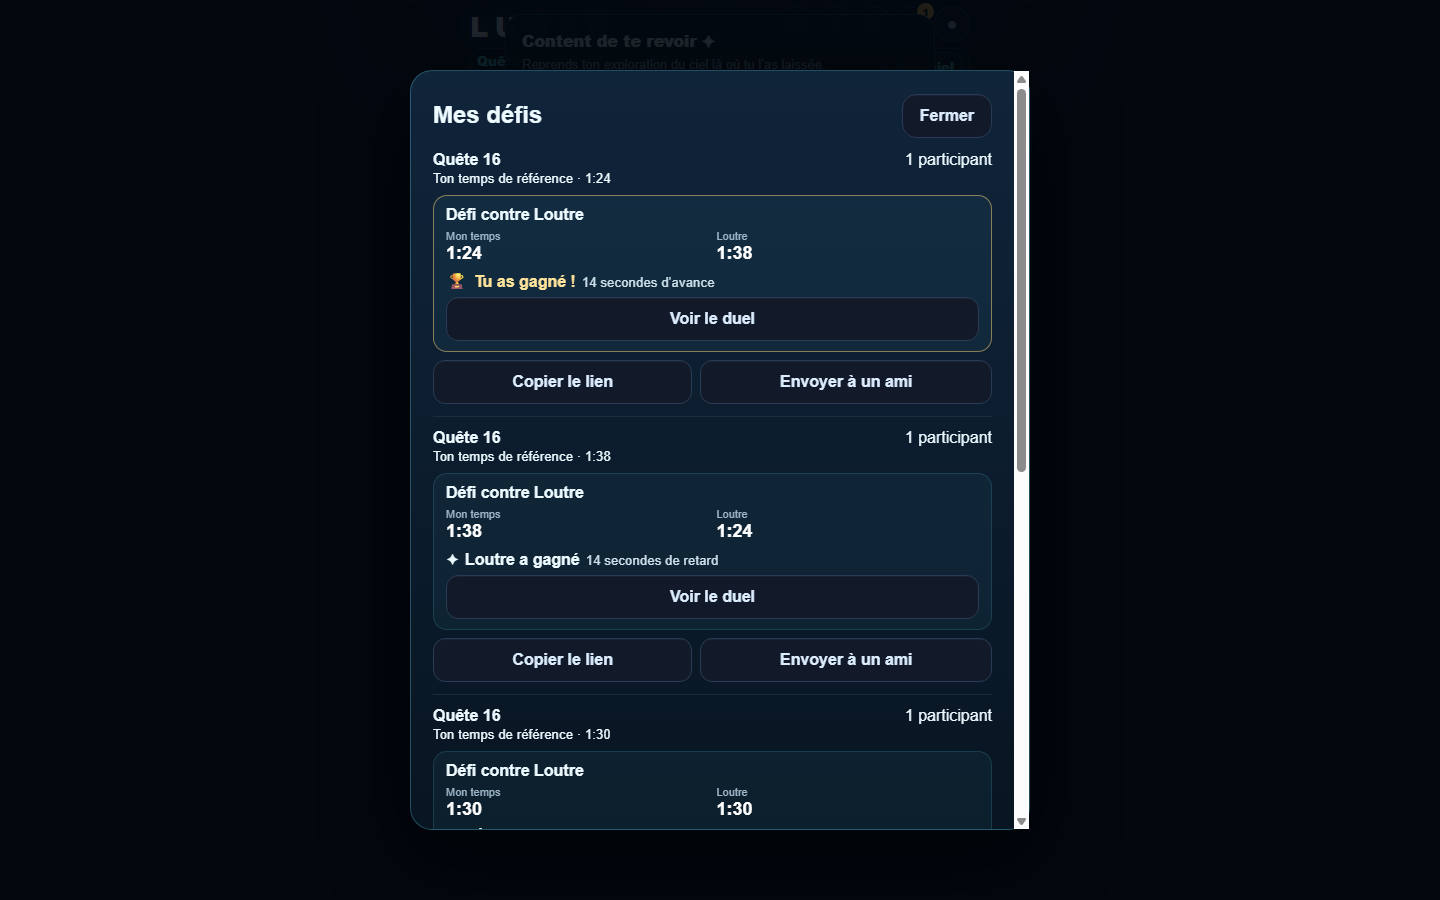
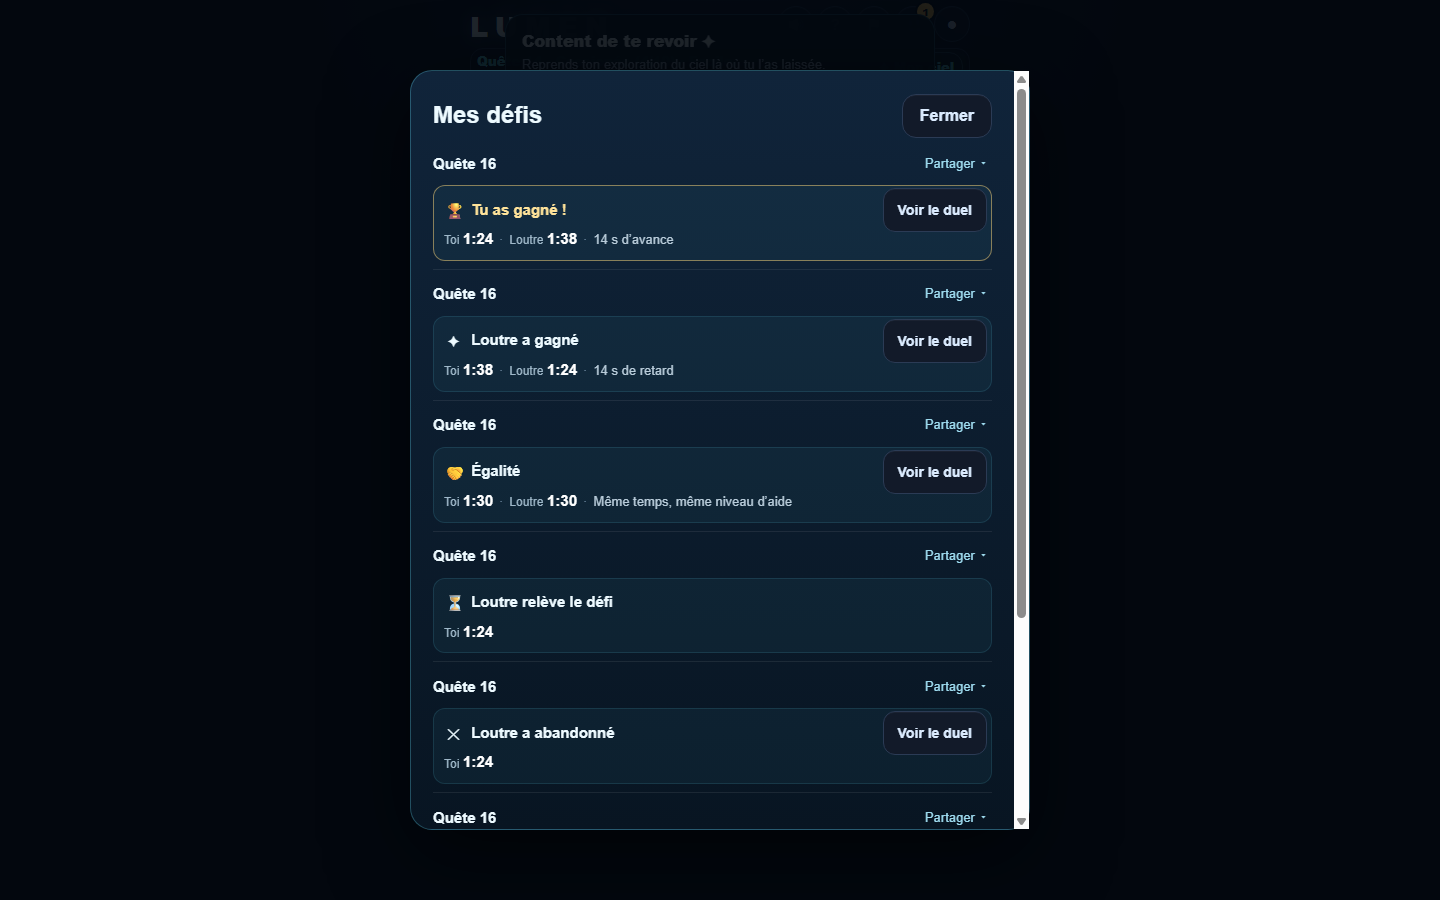
fix(ux): compact My Challenges list without changing duel detail (#896)
Recette 21/11: the « Mes défis » list was too dense on mobile. renderMyChallenges
now names the quest once and gives each player one compact line: verdict, both
times and a short gap when the duel is over (only my own time otherwise, never
0:00), with « Voir le duel » as the single main action. Sharing moves behind a
discreet « Partager » menu. Reference line, participant count and context notes
stay in the detail card. renderDuelRow (shared with « Amis et défis ») and
renderDuelCard are untouched; a SHA-256 of the card output pins it.

diff --git a/src/campaign/duel-view.js b/src/campaign/duel-view.js
@@ -132,22 +132,48 @@ export function renderDuelCard(duel,{t,formatDuration,questLabel=()=>'',currentR
 
 const actionButton=(attr,value,label,extra='')=>'<button type="button" '+attr+'="'+esc(value)+'"'+extra+'>'+esc(label)+'</button>';
 
-// « Mes défis »: one card per challenge I created, one duel row per player.
+// #896 (recette 21/11): « Mes défis » is a scannable list. Per challenge: the
+// quest once, then one compact line per player (verdict, both times and gap
+// when the duel is over), « Voir le duel » as the only main action, sharing
+// tucked behind a discreet « Partager ». Context notes stay in the detail card.
+const DUEL_DETAIL_STATES=['won','lost','tied','abandoned-them','unavailable'];
+// Short gap for one-line reading in the list; the detail card keeps the sentence.
+function shortGap(outcome,name,{t,formatDuration}){
+ if(outcome.state==='tied'||outcome.reason==='assistance')return gapText(outcome,name,{t,formatDuration});
+ if(!['won','lost'].includes(outcome.state))return '';
+ const time=outcome.gap>=60?formatDuration(outcome.gap):t('duel.secondsShort',{count:outcome.gap});
+ return t(outcome.state==='won'?'duel.aheadTime':'duel.behindTime',{time});
+}
+function compactDuel(duel,{t,formatDuration,openId}){
+ const outcome=duelOutcome(duel),name=duel.theirs.name||t('duel.friend');
+ const comparable=['won','lost','tied'].includes(outcome.state);
+ const gap=comparable?shortGap(outcome,name,{t,formatDuration}):'';
+ const mine=duel.mine.status==='completed'&&duel.mine.duration!==null?formatDuration(duel.mine.duration):null;
+ const theirs=comparable?timeOf(duel.theirs,formatDuration):null;
+ // Times: both only when comparable; otherwise my own time alone, never a 0:00.
+ const times=[mine!==null?'<span class="challenge-duel-time"><small>'+esc(t('duel.you'))+'</small> <b>'+esc(mine)+'</b></span>':'',
+  theirs!==null?'<span class="challenge-duel-time"><small>'+esc(name)+'</small> <b>'+esc(theirs)+'</b></span>':'',
+  gap?'<span class="challenge-duel-gap">'+esc(gap)+'</span>':''].filter(Boolean).join('<span class="challenge-duel-sep" aria-hidden="true">·</span>');
+ const view=openId!==null&&DUEL_DETAIL_STATES.includes(outcome.state)?actionButton('data-duel-open',openId,t('duel.view'),' class="challenge-duel-open"'):'';
+ return '<li class="challenge-duel duel-'+outcome.state+'" data-duel-state="'+outcome.state+'">'
+  +'<div class="challenge-duel-main"><span class="challenge-duel-icon" aria-hidden="true">'+VERDICT_ICON[outcome.state]+'</span>'
+  +'<strong class="challenge-duel-verdict">'+esc(duelVerdictText(outcome,name,t))+'</strong>'+view+'</div>'
+  +(times?'<p class="challenge-duel-times">'+times+'</p>':'')
+  +'</li>';
+}
+
+// « Mes défis »: one card per challenge I created, one compact line per player.
 export function renderMyChallenges(rows=[],{t,formatDuration,questLabel=()=>'',canSendFriend=false,currentRevision=null}){
  if(!rows.length)return '<p class="social-note">'+esc(t('duel.noChallenges'))+'</p>';
  return rows.map(row=>{
-  const parts=Array.isArray(row.participants)?row.participants:[];
-  const duels=parts.map((p,index)=>{
-   const duel=duelFromSentRow(row,p),done=duelOutcome(duel).state;
-   const view=['won','lost','tied','abandoned-them','unavailable'].includes(done)?actionButton('data-duel-open',row.challenge_id+'|'+index,t('duel.view')):null;
-   return renderDuelRow(duel,{t,formatDuration,questLabel:()=>'',action:view,currentRevision});
-  }).join('');
-  return '<div class="challenge-list-item" data-challenge-id="'+esc(row.challenge_id)+'">'
-   +'<div class="challenge-list-head"><strong>'+esc(questLabel(row))+'</strong><span>'+esc(t('duel.participants',{count:parts.length}))+'</span></div>'
-   +'<small>'+esc(t('duel.reference',{time:formatDuration(Number(row.source_duration_seconds)||0)}))+'</small>'
-   +(duels||'<p class="social-note">'+esc(t('duel.noParticipant'))+'</p>')
-   +'<div class="duel-row-actions">'+actionButton('data-copy-link',row.challenge_id,t('duel.copyLink'))
-   +(canSendFriend?actionButton('data-send-friend',row.challenge_id,t('duel.sendFriend'),' class="challenge-send-friend"'):'')+'</div>'
+  const parts=Array.isArray(row.participants)?row.participants:[],quest=questLabel(row);
+  const duels=parts.map((p,index)=>compactDuel(duelFromSentRow(row,p),{t,formatDuration,openId:row.challenge_id+'|'+index})).join('');
+  const share='<details class="challenge-share"><summary aria-label="'+esc(t('duel.shareChallenge',{quest}))+'">'+esc(t('duel.share'))+'</summary>'
+   +'<div class="challenge-share-actions">'+actionButton('data-copy-link',row.challenge_id,t('duel.copyLink'))
+   +(canSendFriend?actionButton('data-send-friend',row.challenge_id,t('duel.sendFriend'),' class="challenge-send-friend"'):'')+'</div></details>';
+  return '<div class="challenge-list-item challenge-compact" data-challenge-id="'+esc(row.challenge_id)+'">'
+   +'<div class="challenge-compact-head"><strong class="challenge-compact-quest">'+esc(quest)+'</strong>'+share+'</div>'
+   +(duels?'<ul class="challenge-duels">'+duels+'</ul>':'<p class="challenge-duel-empty">'+esc(t('duel.noParticipant'))+'</p>')
    +'</div>';
  }).join('');
 }

diff --git a/src/ui/styles.css b/src/ui/styles.css
@@ -1603,6 +1603,33 @@ html body .game-core .actions>#new.action-reset:hover,html body .game-core .acti
 .duel-row-actions button{flex:1 1 auto;min-height:44px;border-radius:12px}
 .duel-loading{min-height:120px}
 .friend-challenge>.duel-row{margin:6px 0}
+/* #896 recette 21/11: compact « Mes défis » list. Scoped to .challenge-compact;
+   the detail card (.duel-card) and the shared .duel-row are unchanged. */
+.challenge-list-item.challenge-compact{padding:6px 0 8px}
+.challenge-compact-head{display:flex;align-items:center;justify-content:space-between;gap:8px;min-width:0}
+.challenge-compact-quest{min-width:0;overflow:hidden;text-overflow:ellipsis;white-space:nowrap;font-size:15px}
+.challenge-share{position:relative;flex:none}
+.challenge-share>summary{list-style:none;cursor:pointer;display:inline-flex;align-items:center;gap:4px;min-height:44px;min-width:44px;margin:-4px -6px -4px 0;padding:0 10px;border-radius:12px;font-size:13px;color:#9fdcf0}
+.challenge-share>summary::-webkit-details-marker{display:none}
+.challenge-share>summary::after{content:"▾";font-size:11px}
+.challenge-share[open]>summary::after{content:"▴"}
+.challenge-share>summary:focus-visible{outline:2px solid #68e7ff;outline-offset:2px}
+.challenge-share-actions{position:absolute;right:0;top:100%;z-index:3;display:grid;gap:6px;min-width:190px;padding:8px;border-radius:14px;background:#0d1b2a;border:1px solid rgba(104,231,255,.25);box-shadow:0 8px 24px rgba(0,0,0,.45)}
+.challenge-share-actions button{min-height:44px;border-radius:12px;font-size:14px;white-space:nowrap}
+.challenge-duels{list-style:none;margin:4px 0 0;padding:0;display:grid;gap:4px}
+.challenge-duel{display:grid;gap:0;padding:2px 4px 4px 10px;border-radius:12px;background:rgba(104,231,255,.05);border:1px solid rgba(104,231,255,.12)}
+.challenge-duel-main{display:flex;align-items:center;gap:8px;min-height:44px}
+.challenge-duel-icon{flex:none;width:1.2em;text-align:center}
+.challenge-duel-verdict{flex:1 1 auto;min-width:0;font-size:15px;line-height:1.25;overflow-wrap:anywhere}
+.challenge-duel-open{flex:none;min-height:44px;padding:0 14px;border-radius:12px;font-size:14px}
+.challenge-duel-times{display:flex;flex-wrap:wrap;align-items:baseline;gap:2px 6px;margin:-4px 0 6px;font-size:13px;color:#cfe3ee}
+.challenge-duel-time{min-width:0}
+.challenge-duel-time small{display:inline-block;max-width:11em;overflow:hidden;text-overflow:ellipsis;white-space:nowrap;vertical-align:bottom;font-size:12px;color:#9fb8c9}
+.challenge-duel-time b{font-size:15px;font-variant-numeric:tabular-nums;color:#ffffff}
+.challenge-duel-sep{color:#6f8aa0}
+.challenge-duel.duel-won{border-color:rgba(255,214,120,.5)}
+.challenge-duel.duel-won .challenge-duel-verdict{color:#ffe39a}
+.challenge-duel-empty{margin:6px 0 0;font-size:13px;color:#9fb8c9}
 @media(max-width:380px){.duel-time{font-size:24px}.duel-verdict strong{font-size:19px}.duel-player{padding:10px 4px 8px}}
 @media(prefers-reduced-motion:reduce){.duel-card *,.duel-row *{transition:none!important;animation:none!important}}
 

diff --git a/src/ui/locales/fr/duel.js b/src/ui/locales/fr/duel.js
@@ -49,4 +49,7 @@ export default Object.freeze({
   'duel.noSent': "Aucun défi envoyé à un ami.",
   'duel.versus': "VS",
   'duel.sendFriend': "Envoyer à un ami",
+  'duel.secondsShort': "{count} s",
+  'duel.share': "Partager",
+  'duel.shareChallenge': "Partager le défi · {quest}",
 });

diff --git a/src/ui/locales/en/duel.js b/src/ui/locales/en/duel.js
@@ -49,4 +49,7 @@ export default Object.freeze({
   'duel.noSent': "No challenge sent to a friend.",
   'duel.versus': "VS",
   'duel.sendFriend': "Send to a friend",
+  'duel.secondsShort': "{count} s",
+  'duel.share': "Share",
+  'duel.shareChallenge': "Share the challenge · {quest}",
 });

diff --git a/docs/TESTING.md b/docs/TESTING.md
@@ -1906,6 +1906,8 @@ Any change to challenge behavior must additionally verify:
 
 #759: `lumen-share-tests.mjs` also checks the English invitation, result text and card copy (`inviteShare`, `resultShareData(model,t)`, `shareCardCopy`), that private fields never leak, and that the dialog’s native share keeps a specific link (challenge) while generic discovery shares get `player_share`.
 
+#896 compact list (recette 21/11): `duel-view-tests.mjs` also checks the quest named once, one line per player (none hidden), every state without an invented verdict or `0:00`, the autonomy rule, share actions collapsed but with their `data-*` attributes, escaping and long names, EN copy, and pins a SHA-256 of `renderDuelCard()` output (validated card unchanged). `duel-browser.mjs` runs « Mes défis » at 320/360/390/1440 with a three-player challenge: no horizontal scroll, card heights, 44 px targets, untruncated verdicts, share menu, copy link, detail card, Escape and focus return.
+
 #896: `duel-view-tests.mjs` covers verdicts from both roles, the autonomy rule, every non-comparable state (pending, playing, abandoned either side, missing time), gap wording, notes (#887/#889), escaping, contract builders, recipient matching and the three lists; `duel-browser.mjs` (canonical replay suite) checks « Mes défis » at 360/1440 (won/lost/tied/playing/abandoned), the detail card (verdict and both times on screen, one winner, Escape and focus return, copy link), « Amis et défis » received/sent, the result notification opening the duel and English copy, and writes `docs/validation/duel-*.png` when `LUMEN_DUEL_CAPTURES` is set.
 
 #898 (Lot 4, PR A): `social-hub-tests.mjs` checks the global badge sum, that each moved entry/counter id exists once inside the panel and the section order; `social-hub-browser.mjs` (canonical replay suite) covers the guest at 360×640, signed-in 390/1440, keyboard opening, focus trap, Escape with focus restoration, #35 counters feeding the badge, the rankings split, the daily route and writes `docs/validation/social-hub-*.png` when `LUMEN_SOCIAL_CAPTURES` is set. `credits-browser-tests.mjs` opens the panel before focusing the invitation. PR B: `social-notifications-tests.mjs` covers storage per account and corruption, silent baseline, acceptance detection, 30-day expiry, removed friend, deduplication, ordering, read state, extra badge units, French/English copy, guest, throttling, offline (last list kept) and account switch; `social-hub-browser.mjs` checks the feed (4 events, « Nouveau », nicknames only), reading on viewing (badge 4 → 3), opening Mes défis (badge → 2), no ghost after reading, offline notice, `online` refresh and the received challenge link.

diff --git a/docs/UX_AND_VISUAL_DIRECTION.md b/docs/UX_AND_VISUAL_DIRECTION.md
@@ -400,6 +400,14 @@ replaces « Mes défis par lien ». Notes stay honest: qualifying-replay referen
 Copy: `duel.*` (FR/EN). Captures: `docs/validation/duel-*.png` (before:
 `duel-before-*`).
 
+**Compact « Mes défis » (#896, recette 21/11/2026).** The list is for scanning; the detail card (unchanged) is for reading.
+- The quest is named once per challenge. Each player gets one compact line: verdict icon and sentence, with « Voir le duel » as the only main action (44 px).
+- Below it, for a finished comparable duel, « Toi 1:24 · Loutre 1:38 · 14 s d’avance ». For an unfinished one, only my own time, never a `0:00`.
+- No reference line, participant count or context notes in the list (still in the card).
+- Sharing (« Copier le lien », « Envoyer à un ami ») sits behind a discreet « Partager ▾ » menu in the card head, available even for a pending challenge.
+- Implemented in `renderMyChallenges` only (`.challenge-compact` styles). `renderDuelRow` (shared with « Amis et défis ») and `renderDuelCard` are untouched.
+- Captures: `duel-list-{320,360,390,1440}`, `duel-list-multi-360`, `duel-list-share-360` (before: `duel-before-compact-list-*`).
+
 « Amis et défis » (#35, row « Mes amis » of the panel) stays an optional screen,
 never on the game screen and never inside a grid. Guests see why friends need an account and
 keep playing link challenges. Friends are added by exact nickname; « Envoyer à un
